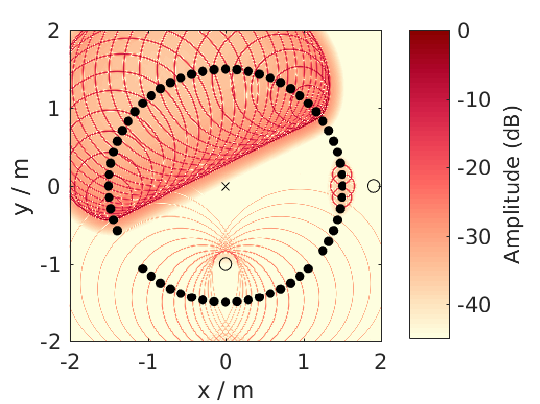
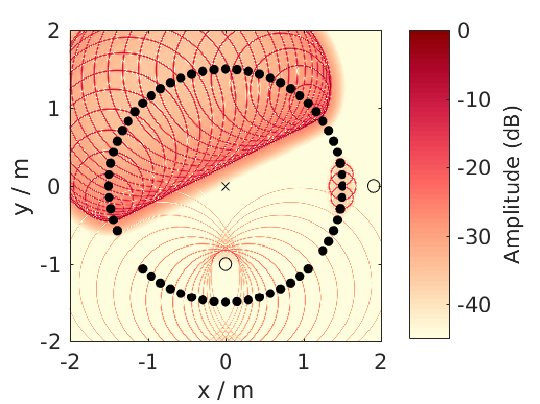
DOC: update text and code to generate time plots

diff --git a/doc/img/generate_plots.m b/doc/img/generate_plots.m
@@ -189,7 +189,7 @@ conf = SFS_config;
 conf.dimension = '2.5D';
 conf.plot.useplot = true;
 % sound_field_imp_nfchoa(X,Y,Z,xs,src,t,conf)
-[p,x,y,z,x0] = sound_field_imp_nfchoa([-2 2],[-2 2],0,[0 2 0],'ps',200,conf);
+[p,x,y,z,x0] = sound_field_imp_nfchoa([-2 2],[-2 2],0,[0 2 0],'ps',0.005,conf);
 axis([-2 2 -2 2]);
 xticks(-2:1:2); yticks(-2:1:2);
 print_png('sound_field_imp_nfchoa_25d.png');
@@ -200,13 +200,14 @@ xticks(-2:1:2); yticks(-2:1:2);
 print_png('sound_field_imp_nfchoa_25d_dB.png');
 conf.plot.useplot = false;
 conf.t0 = 'source';
-t_40cm = round(0.4/conf.c*conf.fs); % in samples
+t_40cm = 0.4/conf.c; % time to travel 40 cm in s
+t0 = 0.0005; % start time of focused source in s
 [p_ps,~,~,~,x0_ps] = ...
-    sound_field_imp_wfs([-2 2],[-2 2],0,[1.9 0 0],'ps',20+t_40cm,conf);
+    sound_field_imp_wfs([-2 2],[-2 2],0,[1.9 0 0],'ps',t0+t_40cm,conf);
 [p_pw,~,~,~,x0_pw] = ...
-    sound_field_imp_wfs([-2 2],[-2 2],0,[1 -2 0],'pw',20-t_40cm,conf);
+    sound_field_imp_wfs([-2 2],[-2 2],0,[1 -2 0],'pw',t0-t_40cm,conf);
 [p_fs,~,~,~,x0_fs] = ...
-    sound_field_imp_wfs([-2 2],[-2 2],0,[0 -1 0 0 1 0],'fs',20,conf);
+    sound_field_imp_wfs([-2 2],[-2 2],0,[0 -1 0 0 1 0],'fs',t0,conf);
 plot_sound_field(p_ps+p_pw+p_fs,[-2 2],[-2 2],0,[x0_ps; x0_pw; x0_fs],conf)
 hold;
 scatter(0,0,'k','x');   % origin of plane wave
@@ -233,7 +234,7 @@ conf.plot.usedb = true;
 conf.dimension = '2.5D';
 conf.secondary_sources.number = 64;
 conf.secondary_sources.geometry = 'circle';
-sound_field_imp_nfchoa(X,Y,0,[0 2 0],'ps',200,conf);
+sound_field_imp_nfchoa(X,Y,0,[0 2 0],'ps',0.005,conf);
 axis([-2 2 -2 2]);
 xticks(-2:1:2); yticks(-2:1:2);
 print_png('sound_field_imp_nfchoa_25d_dB_custom_grid.png');

diff --git a/doc/time-domain.rst b/doc/time-domain.rst
@@ -6,7 +6,7 @@ Time Domain
 With the files in the folder ``SFS_time_domain`` you can simulate snapshots in time
 of an impulse originating from your |WFS| or |NFC-HOA| system.
 
-In the following we will create a snapshot in time after 200 samples for
+In the following we will create a snapshot in time after 5 ms for
 a broadband virtual point source placed at (0 2 0) m for 2.5D |NFC-HOA|.
 
 .. sourcecode:: matlab
@@ -15,7 +15,7 @@ a broadband virtual point source placed at (0 2 0) m for 2.5D |NFC-HOA|.
     conf.dimension = '2.5D';
     conf.plot.useplot = true;
     % sound_field_imp_nfchoa(X,Y,Z,xs,src,t,conf)
-    [p,x,y,z,x0] = sound_field_imp_nfchoa([-2 2],[-2 2],0,[0 2 0],'ps',200,conf);
+    [p,x,y,z,x0] = sound_field_imp_nfchoa([-2 2],[-2 2],0,[0 2 0],'ps',0.005,conf);
     %print_png('img/sound_field_imp_nfchoa_25d.png');
 
 .. figure:: img/sound_field_imp_nfchoa_25d.png
@@ -23,7 +23,7 @@ a broadband virtual point source placed at (0 2 0) m for 2.5D |NFC-HOA|.
 
    Sound pressure of a broadband impulse point source synthesized by 2.5D
    |NFC-HOA|. The point source is placed at (0,2,0) m and the time snapshot is
-   shown 200 samples after the first secondary source was active.
+   shown 5 ms after the first secondary source was active.
 
 The output can also be plotted in dB by setting ``conf.plot.usedb = true;``.
 In this case the default color map is changed and a color bar is plotted
@@ -60,13 +60,14 @@ default behavior. You can change this by setting
 
     conf.plot.useplot = false;
     conf.t0 = 'source';
-    t_40cm = round(0.4/conf.c*conf.fs); % in samples
+    t_40cm = 0.4/conf.c; % time to travel 40 cm in s
+    t0 = 0.0005; % start time of focused source in s
     [p_ps,~,~,~,x0_ps] = ...
-        sound_field_imp_wfs([-2 2],[-2 2],0,[1.9 0 0],'ps',20+t_40cm,conf);
+        sound_field_imp_wfs([-2 2],[-2 2],0,[1.9 0 0],'ps',t0+t_40cm,conf);
     [p_pw,~,~,~,x0_pw] = ...
-        sound_field_imp_wfs([-2 2],[-2 2],0,[1 -2 0],'pw',20-t_40cm,conf);
+        sound_field_imp_wfs([-2 2],[-2 2],0,[1 -2 0],'pw',t0-t_40cm,conf);
     [p_fs,~,~,~,x0_fs] = ...
-        sound_field_imp_wfs([-2 2],[-2 2],0,[0 -1 0 0 1 0],'fs',20,conf);
+        sound_field_imp_wfs([-2 2],[-2 2],0,[0 -1 0 0 1 0],'fs',t0,conf);
     plot_sound_field(p_ps+p_pw+p_fs,[-2 2],[-2 2],0,[x0_ps; x0_pw; x0_fs],conf)
     hold;
     scatter(0,0,'kx');   % origin of plane wave
@@ -80,9 +81,9 @@ default behavior. You can change this by setting
 
    Sound pressure in decibel of a boradband impulse plane wave, point source,
    and focused source synthesized all by 2.5D |WFS|. The plane wave is traveling
-   into the direction (1,-2,0) and shown 31 samples before it starting point
-   at (0,0,0). The point source is placed at (1.9,0,0) m and shown 71 samples
-   after its start. The focused source is placed at (0,-1,0) m and shown 20
-   samples after its start.
+   into the direction (1,-2,0) and shown 0.7 ms before it starting point at
+   (0,0,0). The point source is placed at (1.9,0,0) m and shown 1.7 ms after its
+   start. The focused source is placed at (0,-1,0) m and shown 0.5 ms after its
+   start.
 
 .. vim: filetype=rst spell:

diff --git a/doc/custom-grid.rst b/doc/custom-grid.rst
@@ -24,7 +24,7 @@ it for one dimension, two dimensions, or all three dimensions.
     conf.dimension = '2.5D';
     conf.secondary_sources.number = 64;
     conf.secondary_sources.geometry = 'circle';
-    sound_field_imp_nfchoa(X,Y,0,[0 2 0],'ps',200,conf);
+    sound_field_imp_nfchoa(X,Y,0,[0 2 0],'ps',0.005,conf);
     %print_png('img/sound_field_imp_nfchoa_25d_dB_custom_grid.png');
 
 .. figure:: img/sound_field_wfs_3d_xyz_custom_grid.png
@@ -40,7 +40,7 @@ it for one dimension, two dimensions, or all three dimensions.
 
    Sound pressure in decibel of a broadband impulse point source synthesized by
    2.5D |NFC-HOA|. The point source is placed at (0,2,0) m and a time snapshot
-   after 200 samples of the first active secondary source is shown. The sound
-   pressure is calculated only at the explicitly provided grid points.
+   after 5 ms of the first active secondary source is shown. The sound pressure
+   is calculated only at the explicitly provided grid points.
 
 .. vim: filetype=rst spell:
